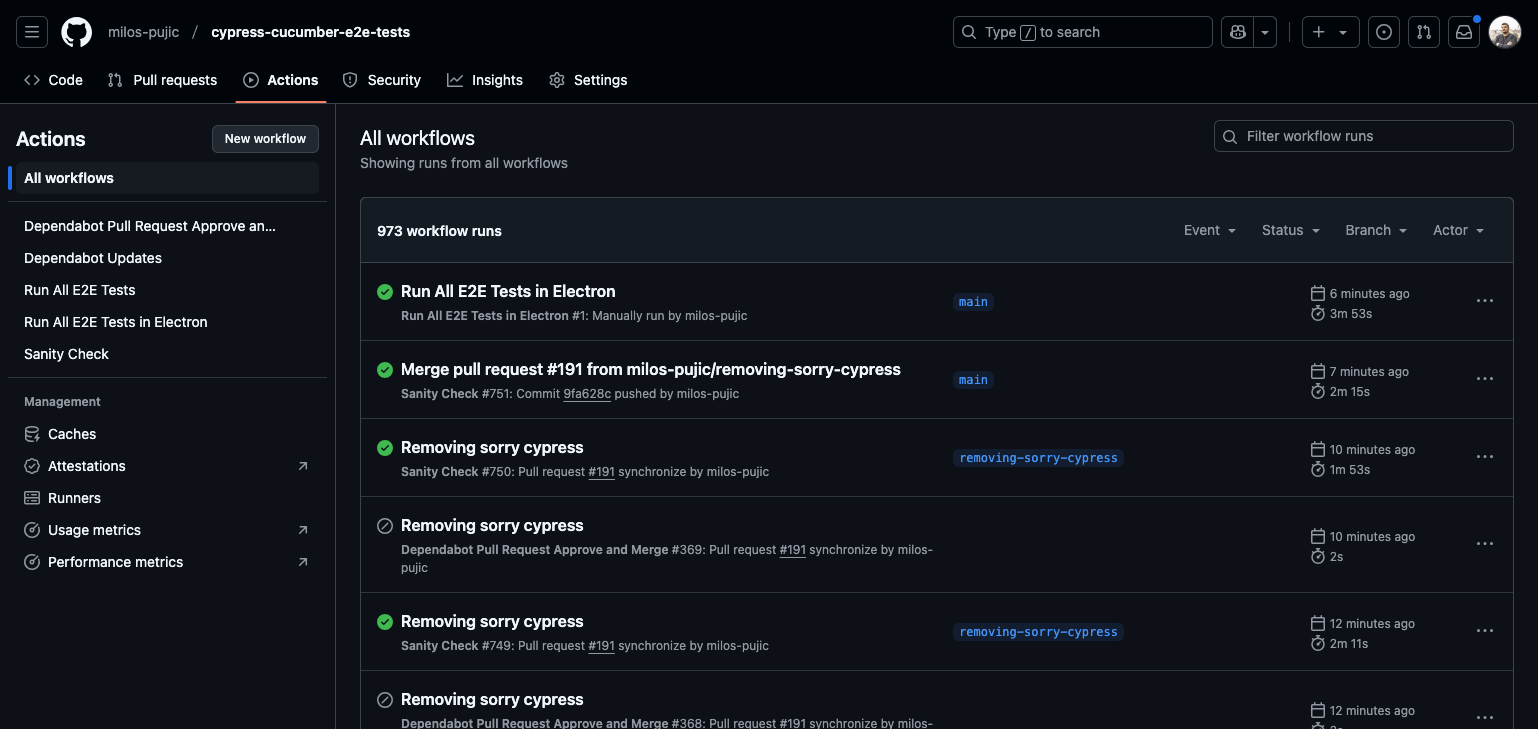
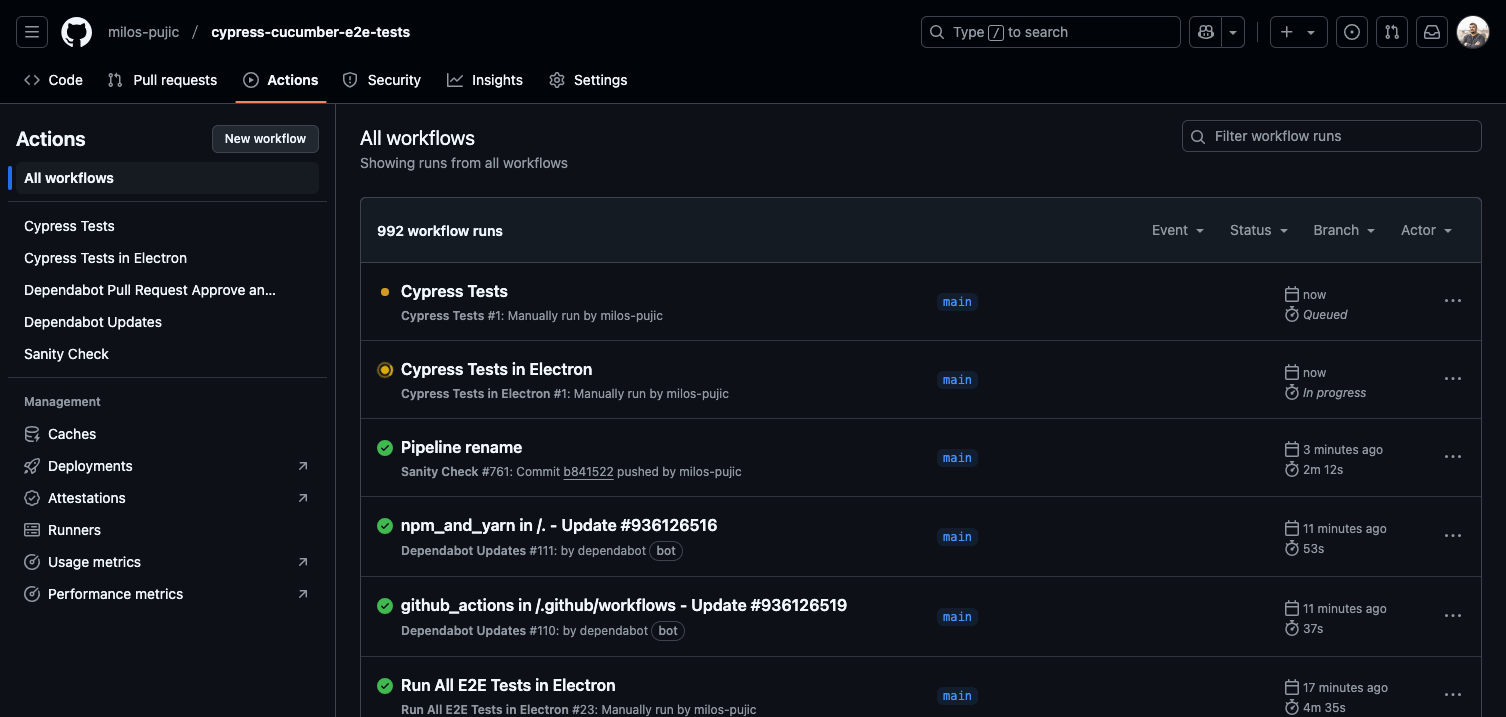
Fix for documentation.

diff --git a/README.md b/README.md
@@ -152,42 +152,59 @@ They all can be found by navigating to [GitHub Repository > Actions](https://git
 
 There are 3 GitHub Actions Workflows setup for Cypress Cucumber E2E Tests repository:
 
-- [Run All E2E Tests](https://github.com/milos-pujic/cypress-cucumber-e2e-tests/actions/workflows/run-all.yml)
-- [Run All E2E Tests in Electron](https://github.com/milos-pujic/cypress-cucumber-e2e-tests/actions/workflows/run-all-electron-local.yml)
-- [Sanity Check](https://github.com/milos-pujic/cypress-cucumber-e2e-tests/actions/workflows/sanity-check.yml)
+- [Cypress Tests](https://github.com/milos-pujic/cypress-cucumber-e2e-tests/actions/workflows/cypress.yml): Used to manually trigger execution set of Cypress Tests, using specified browser and environment.
+- [Cypress Tests in Electron](https://github.com/milos-pujic/cypress-cucumber-e2e-tests/actions/workflows/cypress-electron.yml): Used for scheduled (and manual) execution of all Cypress Tests, using `electron` and `local` environment and publishing of test results on GitHub Pages.
+- [Sanity Check](https://github.com/milos-pujic/cypress-cucumber-e2e-tests/actions/workflows/sanity-check.yml) - Used for scheduled execution of Sanity Cypress Tests, using `electron` and `local` environment, on merge events on `main` branch and create / update pull request events
 
-### Run All E2E Tests
+### Cypress Tests
 
 This GitHub Action Workflow Executes All Cypress Cucumber E2E Tests on `local` (default) or `prod` environnement using `electron` (default), `chrome`, `firefox` or `edge` browser from defined branch (by default it is `main`).
 
 If `local` environnement is selected, Restful Booker Platform will be started inside GitHub Services and tests will run against it.
 If `prod` environnement is selected, tests will run against live version of Restful Booker Platform available at [automationintesting.online](https://automationintesting.online/).
 
-GitHub Action Workflow configuration file of this workflow is [run-all.yml](/.github/workflows/run-all.yml).
+GitHub Action Workflow configuration file of this workflow is [cypress.yml](/.github/workflows/cypress.yml).
 
 This workflow is only triggered Manually. Steps to trigger it:
 
-1. Open [Run All E2E Tests](https://github.com/milos-pujic/cypress-cucumber-e2e-tests/actions/workflows/run-all.yml)
+1. Open [Cypress Tests](https://github.com/milos-pujic/cypress-cucumber-e2e-tests/actions/workflows/cypress.yml)
 2. Click on `Run workflow` button
     - (which opens sub-modal where `Branch`, `Environnement to run Tests`, `Browser in which to run Tests` and `Skip Test with Known Bugs` can be selected)
 3. Select `Branch`, `Environnement to run Tests`, `Browser in which to run Tests` and `Skip Test with Known Bugs`
 4. Click on `Run workflow` button
 
-![Run All E2E Tests](/docs/imgs/Run-All-E2E-Tests.png)
+![Cypress Tests](/docs/imgs/Cypress-Tests.png)
 
-Also, on [Run All E2E Tests](https://github.com/milos-pujic/cypress-cucumber-e2e-tests/actions/workflows/run-all.yml) page, status of all on-going and previously executed 'Run All E2E Tests' Workflow runs can be found.
+On [Cypress Tests](https://github.com/milos-pujic/cypress-cucumber-e2e-tests/actions/workflows/cypress.yml) page, status of all on-going and previously executed 'Cypress Tests' Workflow runs can be found.
 
-### Run All E2E Tests Electron
+### Cypress Tests Electron
 
 This GitHub Action Workflow Executes All Cypress Cucumber E2E Tests on `local` environnement using `electron` browser from defined branch (by default it is `main`).
 
+:warning: This GitHub Actions publishes report on GitHub pages and beacuse of that it can **ONLY** be executed on **main** branch. :warning:
+
 Environment `local` means that, Restful Booker Platform will be started inside GitHub Services and tests will run against it.
 
-GitHub Action Workflow configuration file of this workflow is [run-all-electron-local.yml](/.github/workflows/run-all-electron-local.yml).
+GitHub Action Workflow configuration file of this workflow is [cypress-electron.yml](/.github/workflows/cypress-electron.yml).
 
-This workflow has only scheduled trigger. It is triggered At 09:00 on every Monday, using cron expression `0 9 * * 1`.
+This workflow has two triggers:
 
-Also, on [Run All E2E Tests Electron](https://github.com/milos-pujic/cypress-cucumber-e2e-tests/actions/workflows/run-all-electron-local.yml) page, status of all on-going and previously executed 'Run All E2E Tests' Workflow runs can be found.
+1. Scheduled Trigger at 09:00 on every Monday, using cron expression `0 9 * * 1`
+2. Manual Trigger
+
+Steps to trigger it manually:
+
+1. Open [Cypress Tests Electron](https://github.com/milos-pujic/cypress-cucumber-e2e-tests/actions/workflows/cypress-electron.yml)
+2. Click on `Run workflow` button
+    - (which opens sub-modal where `Branch` can be selected)
+3. Select `Branch` (:warning: **main** branch must be used :warning:)
+4. Click on `Run workflow` button
+
+![Cypress Tests Electron](/docs/imgs/Cypress-Tests-Electron.png)
+
+On [Cypress Tests Electron](https://github.com/milos-pujic/cypress-cucumber-e2e-tests/actions/workflows/cypress-electron.yml) page, status of all on-going and previously executed 'Cypress Tests' Workflow runs can be found.
+
+This GitHub Action publishes Cucumber HTML and Allure Report on GitHub Pages of this project, located [here](https://milos-pujic.github.io/cypress-cucumber-e2e-tests/).
 
 ### Sanity Check
 
@@ -200,4 +217,4 @@ This workflow is only triggered automatically on specific events:
 - Merge Events on `main` branch
 - Create / Update GitHub Pull Request Events
 
-Also, on [Sanity Check](https://github.com/milos-pujic/cypress-cucumber-e2e-tests/actions/workflows/sanity-check.yml) page, status of all on-going and previously executed 'Sanity Check' Workflow runs can be found.
+On [Sanity Check](https://github.com/milos-pujic/cypress-cucumber-e2e-tests/actions/workflows/sanity-check.yml) page, status of all on-going and previously executed 'Sanity Check' Workflow runs can be found.
